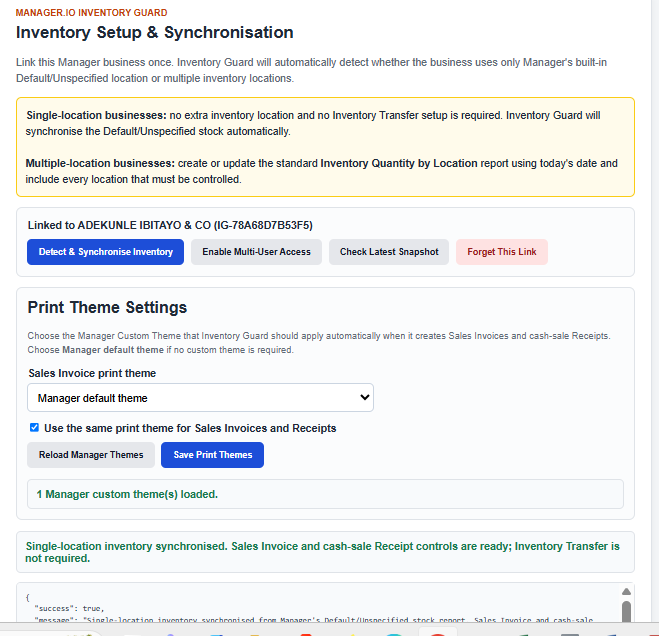
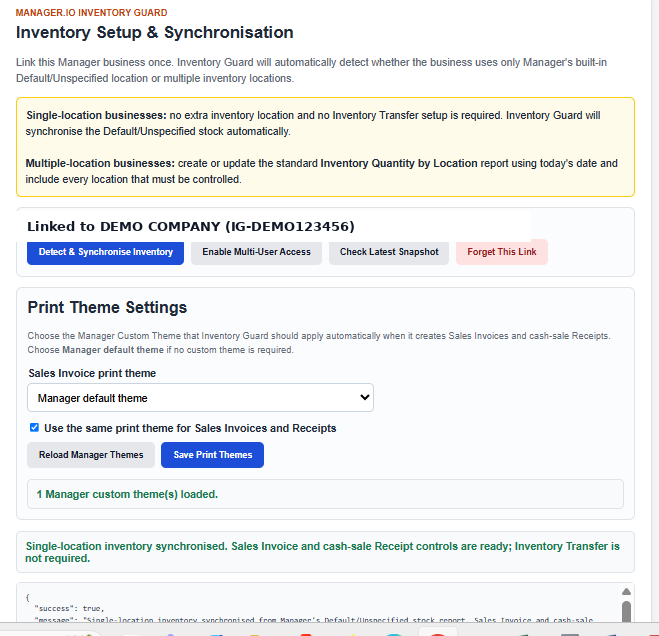
Add files via upload
Anonymise public Inventory Guard screenshots

Changed region(s): [[0.0303, 0.3286, 0.6677, 0.3884], [0.698, 0.3585, 0.7891, 0.3884]]

diff --git a/README.md b/README.md
@@ -115,3 +115,12 @@ This package reflects the tested v2.2.2 production behaviour:
 - The Customer Journey contains the complete 12-step onboarding sequence, including
   creation/update of Manager's Inventory Quantity by Location report for MULTI_LOCATION
   businesses and the required return to Inventory Setup & Synchronisation afterward.
+
+
+## Public screenshot privacy update
+
+The public screenshots have been anonymised for privacy:
+- the real business identity was replaced with `DEMO COMPANY`;
+- the Customer Portal contact name/email was replaced with `Demo User · demo@example.com`.
+
+No application logic, production Worker, D1 data, URLs or workflow instructions were changed.
